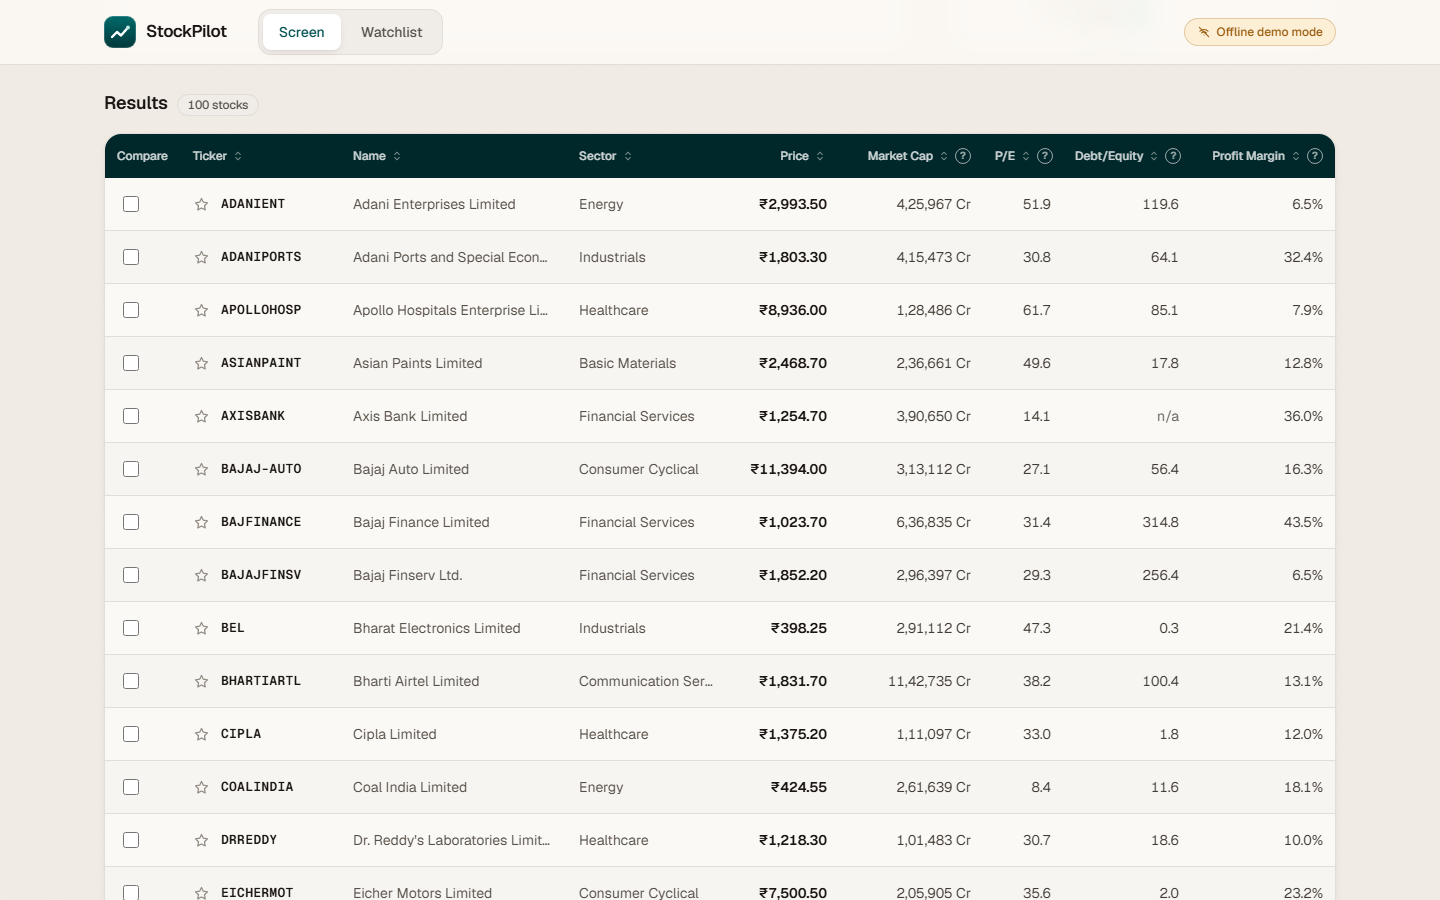
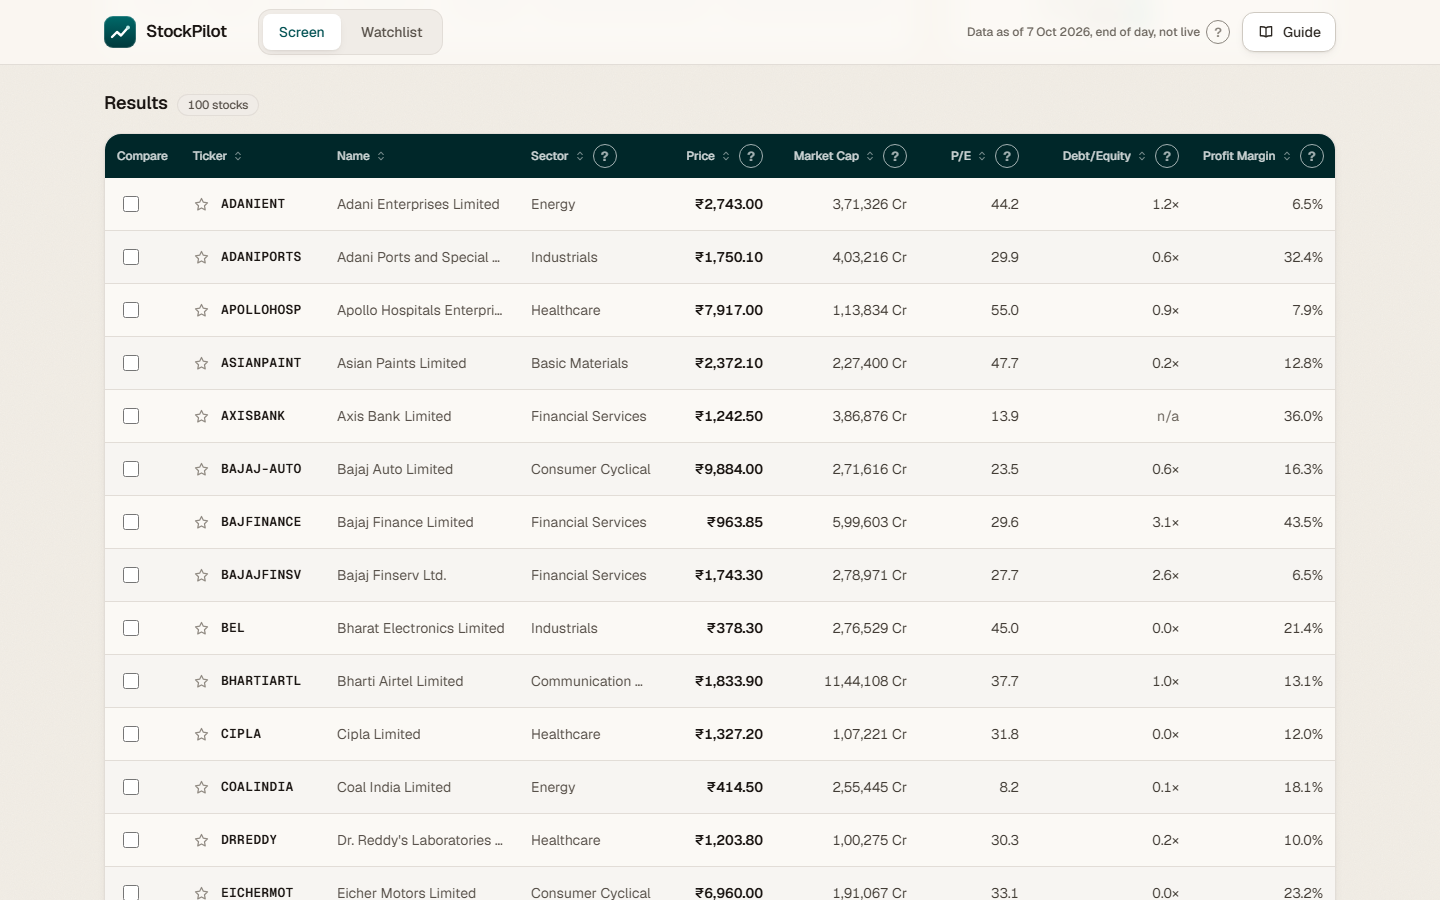
docs: refresh README and screenshots for v1.1.0

diff --git a/README.md b/README.md
@@ -1,196 +1,124 @@
 # StockPilot
 
-A final-year CSE project at Chitkara University. Educational use only, not financial advice.
+A beginner-friendly stock screener for about 100 Indian stocks, with plain-English search, a built-in glossary and an AI helper. A final-year CSE project at Chitkara University. Educational use only, not financial advice.
 
-A beginner stock screener for the NIFTY 50 + NIFTY NEXT 50 universe.
+## Live demo
+
+**[https://stockpilot-hw7d.onrender.com/](https://stockpilot-hw7d.onrender.com/)**
+
+The app runs on free hosting that sleeps after inactivity, so the first load can take about a minute. A short "waking up" notice appears while the server starts.
 
 ## Screenshots
 
-![StockPilot screener page showing the results table of NIFTY stocks with ticker, price, market cap, P/E, debt/equity and profit margin columns](docs/screenshots/01-screener.png)
+| | |
+| --- | --- |
+| ![Screener results table with the "Data as of 7 Oct 2026, end of day, not live" header](docs/screenshots/01-screener.png) | ![Search "low debt tech stocks" turned into two filters, shown as notes and removable chips](docs/screenshots/02-search-filters.png) |
+| **Screener.** Sortable table of all 100 stocks, with the end-of-day date in the header. | **Plain-English filters.** A search becomes visible notes and removable filter chips. |
+| ![The question "what is P/E" answered by the AI helper](docs/screenshots/03-ai-answer.png) | ![The typo "techonolgy stocks" corrected, with a "Showing results for" line](docs/screenshots/04-typo-and-help.png) |
+| **AI answer.** Questions get a short plain-text answer (this one was served from the answer cache). | **Typo tolerance.** The corrected query is shown above the filters it produced. |
+| ![A search with no matches, offering a "Dropping 'P/E below 5' gives 3 stocks" suggestion](docs/screenshots/05-no-results.png) | ![The "?" popover on Debt/Equity explaining the 1.2x notation](docs/screenshots/06-glossary-popover.png) |
+| **Zero-result help.** When nothing matches, one-click suggestions show which filter to drop. | **Glossary popover.** The "?" next to every metric explains it with a worked example. |
+| ![The Guide drawer with the three-step how-to and the list of terms](docs/screenshots/07-guide.png) | ![Stock detail drawer for Adani Enterprises with a weekly price chart](docs/screenshots/08-stock-detail.png) |
+| **Guide.** A three-step how-to plus every term explained. | **Stock detail.** Weekly closing price chart and key numbers. |
 
-The screener results table, with sortable columns and a compare checkbox and star on each row.
+<img src="docs/screenshots/09-mobile.png" alt="StockPilot on a 390 pixel wide phone showing a search result" width="280">
 
-![Query box with the text "cheap profitable midcaps that fell this month", four applied filters, a "Parsed by: Rules" badge and four filter chips](docs/screenshots/02-query-box.png)
+**Mobile.** The layout adapts to phone width; the table becomes stacked cards.
 
-The query "cheap profitable midcaps that fell this month" turned into four filters by the rule parser, shown as notes, a "Parsed by: Rules" badge, and removable chips.
+## What it does
 
-![Stock detail drawer for Adani Enterprises showing a weekly closing price chart and key numbers](docs/screenshots/03-stock-detail.png)
+- Screens about 100 stocks (NIFTY 50 + NIFTY NEXT 50) by sector, market-cap bucket, P/E, Debt/Equity, profit margin and 1-month price change. Sort, paginate, star a watchlist, and compare up to 3 stocks side by side.
+- Plain-English filters: type "cheap profitable midcaps that fell this month" and see it turned into filters you can read and edit.
+- A beginner glossary (a "?" next to every metric) and a Guide drawer that explains each term with a worked example.
+- Typo-tolerant search ("techonolgy" still works) with an AI helper for questions such as "what is P/E".
+- Zero-result help: when no stock matches, StockPilot suggests which filter to drop and how many stocks that gives.
 
-The stock detail drawer for Adani Enterprises: a weekly closing price chart and a grid of key numbers.
+## How the data works
 
-![Compare drawer with an indexed performance line chart and a side-by-side table for BEL, CIPLA and ETERNAL](docs/screenshots/04-compare.png)
+- **End of day, never real-time.** Prices and ratios come from Yahoo Finance through the unofficial [`yahoo-finance2`](https://www.npmjs.com/package/yahoo-finance2) package, which uses undocumented endpoints and is not a licensed data feed. The app header always shows the "Data as of" date.
+- **Daily refresh.** A GitHub Actions job (`.github/workflows/ingest.yml`) runs on weekdays at 12:30 UTC, fetches every ticker and upserts it into MongoDB Atlas. A failed ticker keeps its previous data, and the "as of" date only advances if at most 10% of tickers failed.
+- **Fallback.** If MongoDB is unreachable, empty or not configured, the server reads the committed snapshot `data/stocks.json` instead. `DEMO_MODE=true` skips MongoDB entirely and uses the snapshot only.
+- **Stock universe.** The ticker list is hand-maintained in `server/src/data/tickers.ts` and is not updated automatically when the indices change.
+- **Debt/Equity.** Shown as a ratio such as 1.2x (about Rs 1.20 of debt for every Rs 1 of owners' money). Yahoo reports it as a percentage, so we divide by 100. Banks and other financial companies show n/a because the ratio does not mean the same thing for them.
 
-The compare drawer for three stocks: a line chart indexed to 100 above a side-by-side metrics table.
+## Architecture
 
-![Watchlist page listing three starred stocks in a table](docs/screenshots/05-watchlist.png)
+```
+GitHub Actions (weekdays, 12:30 UTC)
+        |  fetch from Yahoo Finance, upsert
+        v
+MongoDB Atlas  --(fallback: data/stocks.json)-->  Render web service
+                                                  Express: /api/* + built React app
+                                                          |
+                                                          v
+                                                       Browser
+```
 
-The Watchlist page showing three starred stocks.
+- `server/src/data`: the only place that knows where stock data lives (`loadStocks`).
+- `server/src/engine`: pure filter, sort, search and paginate functions behind `POST /api/screen`.
+- `server/src/nl`: typo fixing, the rule parser, the LLM client and zero-result help behind `POST /api/parse`.
+- `web/src`: the React app; `web/src/api/client.ts` is the only file that calls `fetch`.
 
-<img src="docs/screenshots/06-mobile.png" alt="StockPilot screener on a 375 pixel wide phone screen, with each stock shown as a stacked card" width="280">
+**Stack:** TypeScript, React, Vite, Tailwind CSS, Recharts, Express, zod, MongoDB (official driver), Vitest. Hosted on Render, data refreshed by GitHub Actions.
 
-The screener at phone width, where the table becomes stacked cards.
+## The AI helper
 
-## What this is
+- **Provider.** A hosted NVIDIA model, configured through `LLM_PROVIDER=nvidia`. Gemini is also supported by setting `LLM_PROVIDER=gemini`; the server uses whichever one is configured and does not switch between them on its own.
+- **What it does.** It turns a search into filters, or answers a short question such as "what is P/E".
+- **What it does not do.** It never sees stock data, only the text you type and the list of allowed filter fields. Its output is validated with zod and discarded if it does not fit. It gives no investment advice: advice-style questions get a fixed educational reply.
+- **Safeguards.** Calls are rate limited per visitor and capped per day, answers are cached, and every failure (timeout, quota, invalid reply) falls back to the offline keyword parser, so search always works. When the helper is unavailable the app says "AI helper is resting, showing keyword matching only."
 
-- A screener over a **fixed, in-memory snapshot** of ~100 Indian stocks (`data/stocks.json`): filter by sector, market-cap bucket, P/E, debt/equity, profit margin, and 1-month price change; sort, paginate, search by name/ticker, star a watchlist, and compare up to 3 stocks side by side.
-- A free-text query box ("cheap profitable midcaps that fell this month") that turns plain English into the same filter contract, either with a fixed offline rule parser or, if configured, an LLM.
-- A teaching project: every file is meant to be explained in a viva.
+## Run locally
 
-## What this is not
-
-- **Not financial advice.** Nothing here is a recommendation to buy, sell, or hold anything.
-- **Not live data.** The app never calls a market data API at request time; it reads one JSON snapshot taken at a point in time (see [Data source](#data-source)).
-- **Not a general NLP system.** The query box matches a fixed, documented vocabulary of terms and a few numeric-phrase patterns — it is not a language model unless you configure one, and even then the model only ever produces the same restricted filter shape.
-- **Not backed by a database, auth, or an ORM.** There is no user accounts system and nothing here is production-hardened.
-
-## Quick start
-
-Requires Node.js and npm. This repo has **three separate `package.json`s** (root, `web/`, `server/`) and no npm workspaces configured, so each needs its own install.
+Requires Node.js 22 and npm. The repo has three `package.json` files (root, `web/`, `server/`), each installed separately.
 
 ```bash
 git clone https://github.com/AlfredBateman/StockPilot.git
 cd StockPilot
-# from the repo root
 npm install
 npm install --prefix web
 npm install --prefix server
+cp .env.example server/.env   # the server reads server/.env
+npm run dev                   # API on :3001, web on :5173
 ```
 
-### Environment
+Environment variable names (all optional; set the values in `server/.env`, never commit them):
 
-`.env.example` lives at the repo root, but the server actually loads its environment from **`server/.env`** (Node's `dotenv` reads `.env` relative to the process's working directory, and `npm run dev`/`npm run eval` both run the server's scripts with `server/` as that working directory). Copy it to the right place:
+| Name | Purpose |
+| --- | --- |
+| `DEMO_MODE` | `true` runs fully offline: snapshot file only, no MongoDB, no network calls. Safest for a demo. |
+| `MONGODB_URI` | MongoDB Atlas connection string. Blank means use `data/stocks.json`. |
+| `LLM_PROVIDER`, `LLM_API_KEY`, `LLM_MODEL` | AI helper settings. Any blank means keyword matching only. |
+| `LLM_DAILY_CAP` | Most AI calls per UTC day (default 300). |
+| `PORT` | Server port (default 3001). |
+| `ALLOWED_ORIGIN` | Optional CORS origin for deployments. |
 
-```bash
-cp .env.example server/.env
-```
-
-`server/.env` (all values, and what leaving them blank does):
-
-| Variable | Purpose | If blank |
-| --- | --- | --- |
-| `DEMO_MODE` | `true` skips the LLM tier entirely and makes zero network calls — only the cache and the offline rule parser answer queries. | Defaults to off (network tiers are attempted). |
-| `LLM_PROVIDER` | `nvidia` or `gemini`. | Cloud LLM tier is skipped. |
-| `LLM_API_KEY` | API key for that provider. | Cloud LLM tier is skipped. |
-| `LLM_MODEL` | Model name, read as-is and never guessed. | Cloud LLM tier is skipped. |
-| `LLM_DAILY_CAP` | Most cloud LLM calls per UTC day, across all users. | Defaults to `300`. |
-| `PORT` | Port the Express server listens on. | Defaults to `3001`. |
-
-Every one of these is optional. With `server/.env` absent entirely, or with `DEMO_MODE=true`, the app runs fully offline against `data/stocks.json` and the offline rule parser — this is the safest default for a demo or a viva.
-
-### Run it
-
-```bash
-npm run dev
-```
-
-This starts both halves together (via `concurrently`): the Express API on `http://localhost:3001` and the Vite dev server on `http://localhost:5173`, which proxies any `/api/*` request to the server (see `web/vite.config.ts`). Open `http://localhost:5173`.
-
-### Other commands (run from the repo root)
+Commands, run from the repo root:
 
 | Command | What it does |
 | --- | --- |
-| `npm test` | Runs both test suites (`web/`: Vitest + Testing Library-free component logic tests; `server/`: Vitest). |
-| `npm run build` | Type-checks and builds both packages (`web/dist`, `server/dist`). Deployment is coming; for now `web/dist` isn't served by the Express server. |
-| `npm run snapshot` | Re-fetches all ~100 tickers from Yahoo Finance and overwrites `data/stocks.json`. Requires internet access; not needed for normal use since a snapshot is already checked in. |
-| `npm run eval` | Scores the rule parser (and the LLM tier alone, if a key is configured) against `eval/queries.json`, writing `eval/results.md`. See [Eval summary](#eval-summary). |
+| `npm test` | Runs the web and server Vitest suites. |
+| `npm run build` | Type-checks and builds both packages. |
+| `npm start` | Serves the built API and frontend (what Render runs). |
+| `npm run eval` | Scores the search parser on `eval/queries.json` and writes `eval/results.md`. |
+| `npm run snapshot` | Re-fetches all tickers from Yahoo into `data/stocks.json`. |
+| `npm run ingest`, `npm run seed`, `npm run mongo:status` | Fill and inspect MongoDB (need `MONGODB_URI`). |
 
-## Data source
+## Evaluation
 
-- **File:** `data/stocks.json`, generated by `server/scripts/snapshot.ts`.
-- **As of:** `2026-09-22T04:48:46.527Z` (stored in the snapshot's own `asOf` field, and shown in the app's header as "Data as of …").
-- **Source:** the [`yahoo-finance2`](https://www.npmjs.com/package/yahoo-finance2) npm package, which is an **unofficial, community-maintained client for Yahoo Finance's undocumented endpoints — not a licensed or official data feed.** Yahoo Finance itself can change or rate-limit these endpoints at any time without notice, and the numbers (P/E, debt/equity, profit margin, etc.) are whatever Yahoo reports, unverified against any second source beyond one-time manual spot-checks.
-- **Universe:** NIFTY 50 + NIFTY NEXT 50 constituents, listed by hand in `server/src/data/tickers.ts` from Wikipedia's index tables (fetched 2026-09-22) and checked live against Yahoo Finance once before being committed. Index membership drifts over time and this list is not auto-updated.
-- **Freshness:** the snapshot is static until someone re-runs `npm run snapshot`. There is no scheduled refresh, and the running app never fetches live prices.
-
-## Architecture
-
-```mermaid
-graph LR
-    subgraph Browser
-        UI["React app (web/src)"]
-    end
-    subgraph "Vite dev server :5173"
-        Proxy["/api/* proxy"]
-    end
-    subgraph "Express server :3001 (server/src)"
-        Routes["routes/*<br/>(health, stocks, screen, sectors, parse)"]
-        Engine["engine/*<br/>pure filter/sort/search/paginate functions"]
-        NL["nl/*<br/>rule parser + LLM orchestrator"]
-    end
-    Snapshot[("data/stocks.json<br/>loaded once, cached in memory")]
-    Cache[("data/nlCache.json<br/>successful model answers")]
-    LLM(["NVIDIA / Gemini API"])
-
-    UI -- "fetch (web/src/api/client.ts is\nthe only file that calls fetch)" --> Proxy
-    Proxy --> Routes
-    Routes --> Engine
-    Routes --> NL
-    Engine --> Snapshot
-    NL --> Cache
-    NL -. "only if LLM_* set,\nnever in DEMO_MODE" .-> LLM
-```
-
-## AI tier flow
-
-`POST /api/parse` never fails and never depends on a network call to answer: the rule parser is always the floor. `server/src/nl/parseOrchestrator.ts`'s exact order:
-
-```mermaid
-flowchart TD
-    Start(["Query text"]) --> Cut["Keep the first 200 characters"]
-    Cut --> Typo["Fix typos offline
-(typoFix.ts, edit distance 1-2)"]
-    Typo --> Rules0["Run the offline rule parser
-(always)"]
-    Rules0 --> Done{"Filters found and
-every word understood?"}
-    Done -- yes --> UseRules0["tier = rules"]
-    Done -- no --> Cache1{"Cached answer
-for this exact query?"}
-    Cache1 -- yes --> UseCache["tier = cache"]
-    Cache1 -- no --> Demo{"DEMO_MODE=true?"}
-    Demo -- yes --> Resting["tier = rules
-+ 'AI helper is resting' notice"]
-    Demo -- no --> Guard{"LLM configured, and under
-10/min per IP and the daily cap?"}
-    Guard -- yes --> LLMCall["Call NVIDIA (8s) or
-Gemini (5s)"]
-    LLMCall -- "valid reply" --> Remember1["Save to data/nlCache.json
-tier = llm"]
-    LLMCall -- "timeout / error / invalid JSON
-/ fails a schema" --> Resting
-    Guard -- no --> Resting
-```
-
-A model reply is `{intent, filters, answer}`. `intent` is `filter`, `question`, `advice` or `offtopic`. A `filter` reply's filters go through the same zod `FilterSpecSchema` every other filter source uses, and anything that doesn't validate is discarded and treated as "this tier didn't answer", never trusted as-is. The other intents carry a plain-text answer of at most 3 sentences; advice never recommends buying or selling and always ends with a fixed "educational, not financial advice" line. The LLM only ever sees the user's own text, the allowed field/operator names, and the vocabulary's plain-language definitions (`server/src/nl/llmPrompt.ts`), **never any stock data or keys.**
-
-When the filters match zero stocks, the route (not the LLM) re-runs the screen with each filter dropped in turn and returns the best two as clickable suggestions ("Dropping 'low debt' gives 14 stocks"), plus at most one "did you mean" for a near-miss sector or term (`server/src/nl/zeroResultHelp.ts`).
-
-## Eval summary
-
-`eval/queries.json` holds 40 hand-written queries (10 simple, 15 vague/compound, 10 with explicit numbers, 5 unanswerable), each with an expected `FilterSpec` — every one currently marked `"status": "unreviewed"`, meaning a human hasn't checked each expectation by hand yet. `npm run eval` scores the rule parser always, and the LLM tier alone (no cache/rules fallback) only if a key is configured. Current results (`eval/results.md`, offline run, no key configured):
-
-| Tier | Precision | Recall | Full-query match |
-| --- | --- | --- | --- |
-| Rules | 1.00 | 1.00 | 100% (40/40) |
-| LLM (alone, no fallback) | skipped — no key configured | | |
-
-**Honest caveat:** this 100% reflects the rule parser matching expectations that were derived by hand-tracing the rule parser's own code and then confirmed by actually running it — not independent verification, and not a real-world accuracy measure. No LLM key has been tested against these queries in this project, so **there is currently no basis to claim the LLM tier beats, matches, or underperforms the rule parser** — that comparison needs a real key and a human review pass over the "unreviewed" expected filters first.
+`eval/queries.json` holds 70 hand-written queries, each with an expected result that I wrote myself and have not independently reviewed. In `eval/results.md` the offline rule parser matches 69 of 70 expectations, which mostly shows the parser does what I traced it to do, not real-world accuracy. The AI helper scored lower in that run (34 of 70) mainly because the hosted model was slow: calls hit the 8 second timeout and fell back, which is how the app behaves in practice too.
 
 ## Limitations
 
-*(The list below is compiled from the codebase's own documented tradeoffs in its code comments.)*
-
-- **Market-cap buckets are house-defined, not the official SEBI/AMFI rule.** SEBI classifies by rank (top 100 = large cap); since this app's whole universe already is that top 100, that rule would label everything "Large". `server/src/engine/metrics.ts` instead uses two absolute INR thresholds calibrated to this exact 100-stock universe (Large ≥ ₹2,00,000 cr, Mid ≥ ₹1,00,000 cr), which the code itself flags with "review these."
-- **The rule parser is a fixed dictionary, not NLP.** `server/src/nl/vocabulary.ts` matches literal terms ("cheap" → P/E < 20, "low debt" → D/E < 0.5, etc.) and a handful of regex numeric phrases in one fixed word order ("P/E under 15"); anything phrased differently lands in `unmatched`, not a guess.
-- **Some vague terms are deliberately unsupported**, documented directly in `vocabulary.ts`: *stable/safe/risky* (no volatility metric in the data), *growth/momentum* (no revenue history beyond the 1-month price window), and *quality/value/blue chip* (subjective; would just re-skin the terms above under a vaguer name).
-- **The stock universe is a manually reviewed, undated-drift list.** `server/src/data/tickers.ts` was checked against Yahoo Finance once (2026-09-22); NIFTY index membership can change without this list being updated.
-- **The snapshot is static.** No live prices, no scheduled refresh; `npm run snapshot` must be re-run by hand and requires internet access to an unofficial API.
-- **The eval's expected filters are self-authored and unreviewed** (see [Eval summary](#eval-summary)) — treat the 100% score as "the code does what I traced it to do," not as ground-truth accuracy.
-- **The URL doesn't reflect app state.** Filters, search, sort, and page are not encoded in the URL, so a page reload or a shared link loses the current view. Flagged in a Milestone 8B accessibility audit and left unfixed as a new-feature-sized change (would need routing/query-param sync).
-- **The Watchlist and Compare views don't virtualize long lists.** Both are capped by the app's own limits (a hand-starred watchlist, 3 stocks to compare), so this has never been a real problem, but neither would scale to hundreds of rows as written.
-- **Deployment is coming.** `npm run build` produces `web/dist` and `server/dist`, but nothing serves the built web app yet; for now the project runs via `npm run dev`.
-- **`.env.example` lives at the repo root, but the server reads `server/.env`** (see [Environment](#environment)) — an easy setup trip-up, not a feature gap.
+- Data is end of day, from an unofficial source that Yahoo can change or block at any time.
+- Free hosting sleeps after inactivity, so the first visit can take about a minute.
+- The AI helper depends on a free-tier model: it can be slow, time out or run out of daily quota, and then the app uses keyword matching only.
+- About 100 stocks only, and the list is maintained by hand.
+- The keyword parser is a fixed dictionary, not general language understanding. Vague words such as "safe" or "growth" are deliberately unsupported because the data cannot define them.
+- Market-cap buckets are my own thresholds calibrated to this 100-stock set, not the official SEBI rule.
+- The URL does not store your filters, so a shared link opens the default view.
+- Not financial advice.
 
 ## Disclaimer
 
-StockPilot is a student project built to learn and demonstrate a full-stack app with a rule-based/LLM natural-language layer on top of a fixed data snapshot. It is **not financial advice**, the underlying data comes from an unofficial source and may be stale, incomplete, or wrong, and nothing in this app should be used to make real investment decisions.
+StockPilot is a student project for learning and demonstration. It is not financial advice, nothing in it is a recommendation to buy, sell or hold any security, and the data may be late, incomplete or wrong. Do not use it to make real investment decisions.
